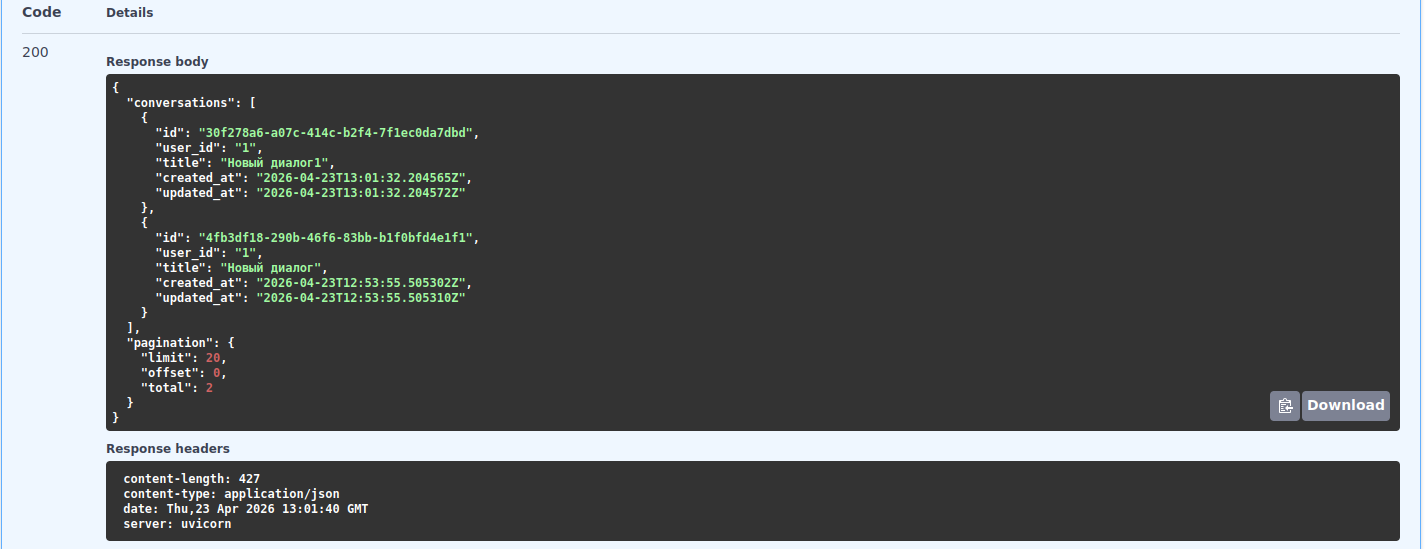
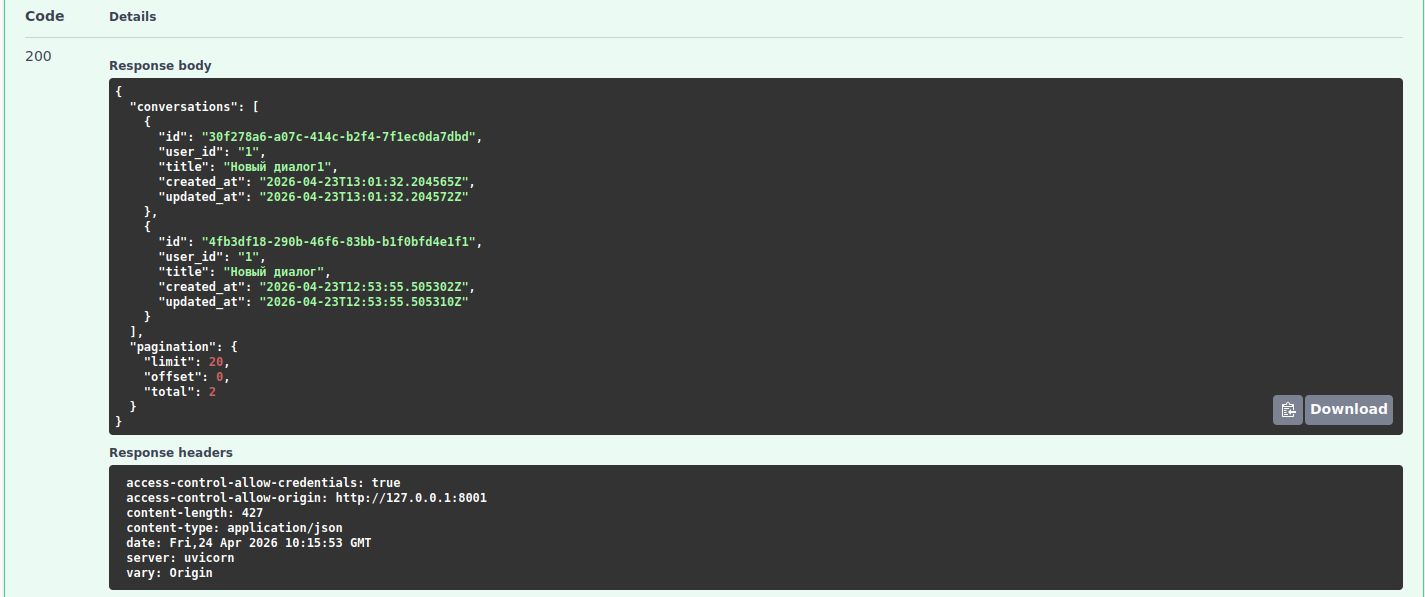
изменена документация для эндпоинта получения списка диалогов

Changed region(s): [[0.0618, 0.0, 1.0, 1.0], [0.0, 0.0, 0.1235, 0.1239]]

diff --git a/llm-chat-service/chat_api_service/docs/list_conversation/README.md b/llm-chat-service/chat_api_service/docs/list_conversation/README.md
@@ -4,7 +4,7 @@
 
 ## Request:
 
-**URL**: `GET /conversation/all`
+**URL**: `POST /conversation/all`
 
 **Headers**:
 
@@ -24,10 +24,15 @@
 **CURL**
 
 ```shell
-curl -X 'GET' \
-  'http://127.0.0.1:8001/conversation/all?limit=20&offset=0' \
+curl -X 'POST' \
+  'http://127.0.0.1:8001/conversation/all' \
   -H 'accept: application/json' \
-  -H 'Authorization: Bearer eyJhbGciOiJIUzI1NiIsInR5cCI6IkpXVCJ9.eyJzdWIiOiIxIiwiZXhwIjoxNzc2OTQ5NzA4LCJpYXQiOjE3NzY5NDg4MDgsInR5cGUiOiJhY2Nlc3MiLCJyb2xlIjoidXNlciJ9.VjkxwVEWNd-YAyjveqOxRAuuZPoAZvKm6NiSdLRq5h8'
+  -H 'Authorization: Bearer eyJhbGciOiJIUzI1NiIsInR5cCI6IkpXVCJ9.eyJzdWIiOiIxIiwiZXhwIjoxNzc3MDI0ODMwLCJpYXQiOjE3NzcwMjM5MzAsInR5cGUiOiJhY2Nlc3MiLCJyb2xlIjoidXNlciJ9.bqAZ3Uhmn-d-kxYoOmMzLI9hjuSZpovtkVa0llNM7ZI' \
+  -H 'Content-Type: application/json' \
+  -d '{
+  "limit": 20,
+  "offset": 0
+}'
 ```
 
 ## Response:
